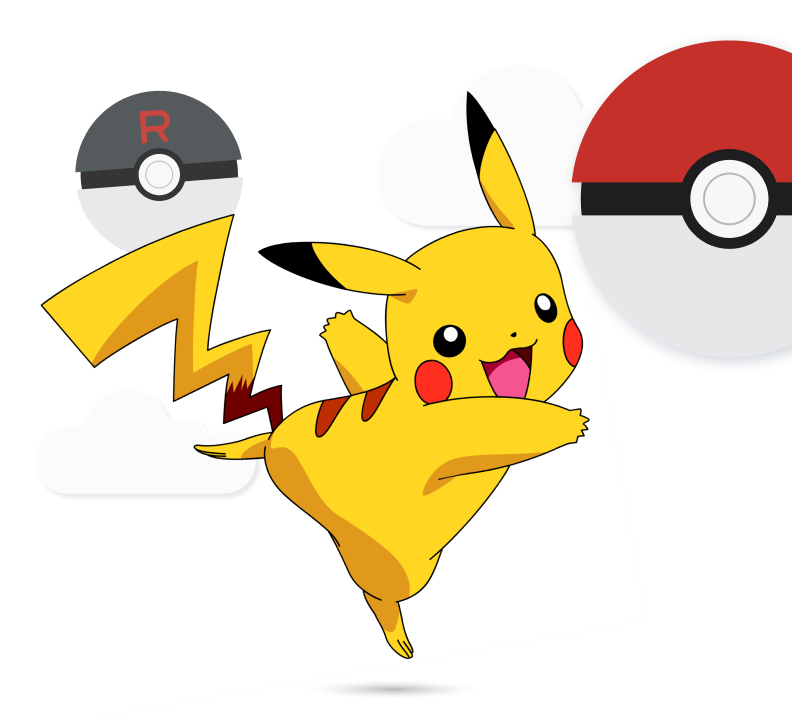
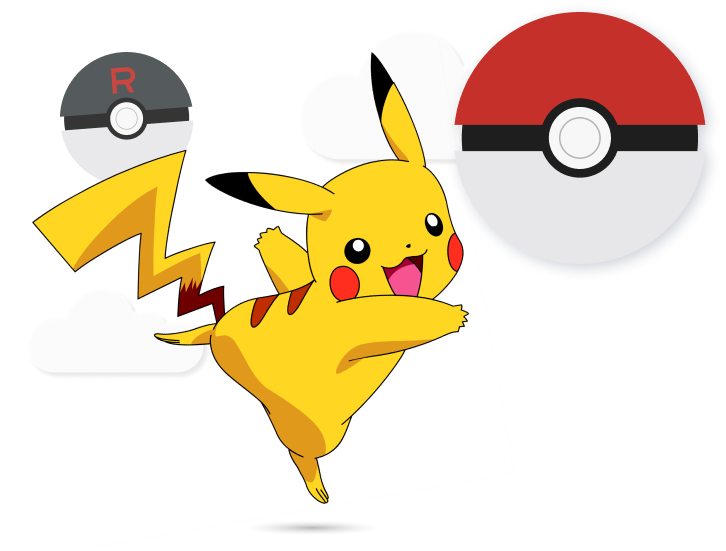
feat: main responsivo

diff --git a/src/pages/Home.tsx b/src/pages/Home.tsx
@@ -5,23 +5,22 @@ export function Home() {
   return (
     <div className="min-h-screen bg-yellow-500 bg-gradient-to-t from-yellow-600">
       <Navbar/>
-      <main className="container mx-auto px-24 flex items-center justify-between">
-        <div className="pt-24 w-[516px]">
-          <h1 className="text-7xl tracking-widest"><strong>Find</strong> all your favorite <strong>Pokemon</strong></h1>
-          <p className="pt-16 pb-16 text-3xl">You can know the type of Pokemon, its strengths, disadvantages and abilities</p>
+      <main className="flex flex-col items-center justify-between">
+        <img 
+            src={imgHome} 
+            alt="Pikachu"
+            className=""
+        />
+        <div className="pt-6 px-2 text-center">
+          <h1 className="text-6xl "><strong>Find</strong> all your favorite <strong>Pokemon</strong></h1>
+          <p className="p-6 text-xl">You can know the type of Pokemon, its strengths, disadvantages and abilities</p>
           <button 
-            className="w-56 h-16 text-2xl font-semibold rounded-xl rounded-b-2xl border-b-[7px] border-emerald-500 bg-emerald-400 hover:border-none">
+            className="w-80 h-16 text-2xl font-semibold rounded-xl rounded-b-2xl border-b-[7px] border-emerald-500 bg-emerald-400 hover:border-none">
               See pokemons
           </button>
         </div>
         
-        <div>
-          <img 
-            src={imgHome} 
-            alt="Pikachu"
-            className=" "
-        />
-        </div>
+        
       </main>      
     </div>
   )

diff --git a/src/components/Navbar.tsx b/src/components/Navbar.tsx
@@ -10,14 +10,14 @@ export function Navbar() {
       <nav className="bg-yellow-500">
         <div className="w-full h-auto p-4 md:p-6 lg:p-8 shadow-xl">
           <div className="flex items-center justify-between h-16">
-            <div className="flex items-center">
+            <div className="flex">
               <div className="flex-shrink-0">
                 <a
                   className=""
                   href="#">
                   <LogoPokemon />
                 </a>
-              </div>              
+              </div>
               <div className="hidden md:block">
                 <div className="ml-10 font-medium text-2xl text-black flex items-baseline space-x-4">
                   <a
@@ -73,10 +73,10 @@ export function Navbar() {
         >
           {(ref) => (
             <div className="md:hidden" id="mobile-menu">
-              <div ref={ref} className="font-medium text-3xl text-black flex flex-col items-center">                
+              <div ref={ref} className="font-medium text-3xl text-black flex flex-col items-center">
                 <a
                   href="#"
-                  className="p-3 hover:underline">                  
+                  className="p-3 hover:underline">
                   Home
                 </a>
                 <a
